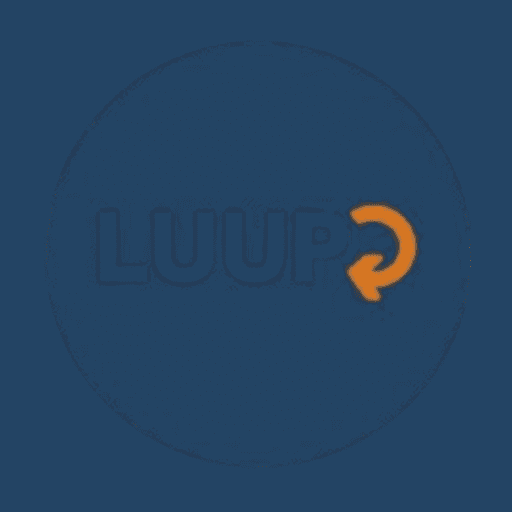
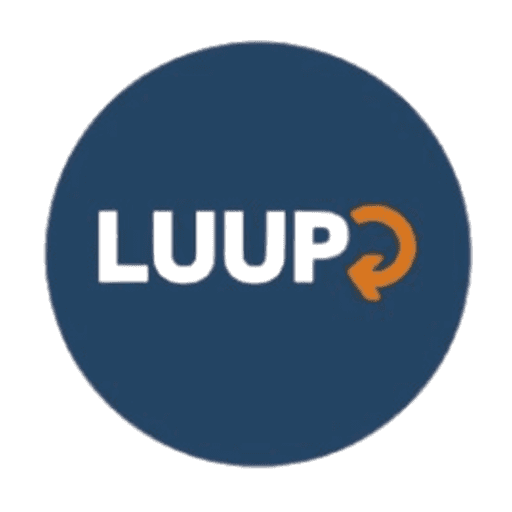
fix: update PWA asset background options to transparent and change BASE_URL in apiConstants

diff --git a/pwa-assets.config.js b/pwa-assets.config.js
@@ -6,12 +6,12 @@ export default defineConfig({
     maskable: {
       sizes: [512],
       padding: 0.15,
-      resizeOptions: { background: '#234465' },
+      resizeOptions: { background: 'transparent' },
     },
     apple: {
       sizes: [180],
       padding: 0.1,
-      resizeOptions: { background: '#234465' },
+      resizeOptions: { background: 'transparent' },
     },
   },
   images: ['public/logo.png'],

diff --git a/src/App/utils/constants/apiConstants.js b/src/App/utils/constants/apiConstants.js
@@ -1,6 +1,5 @@
 export const constants = {
-  BASE_URL: import.meta.env.VITE_APP_BACK_API,
-  KEY_PUBLIC_WOMPI: import.meta.env.VITE_KEY_PUBLIC_WOMPI,
+  BASE_URL: '/api/v1',
   ENDPOINTS: {
     COMPANY: 'company',
     SHARED: 'shared',
